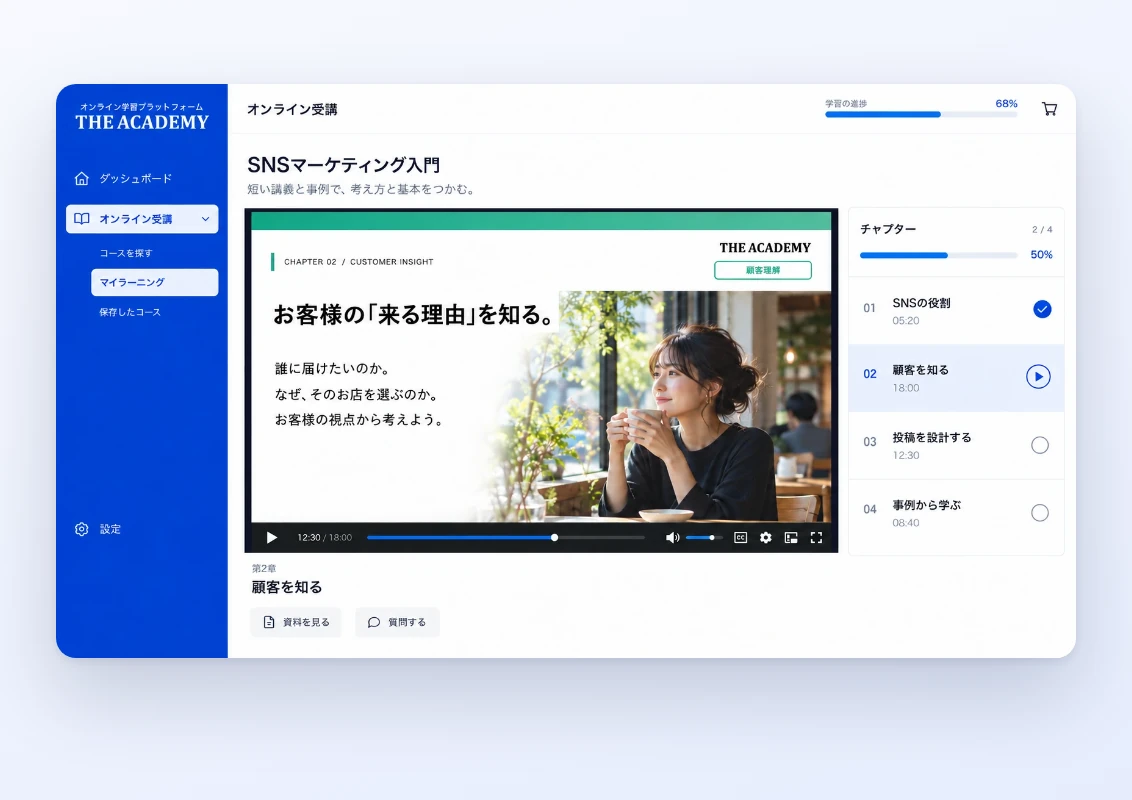
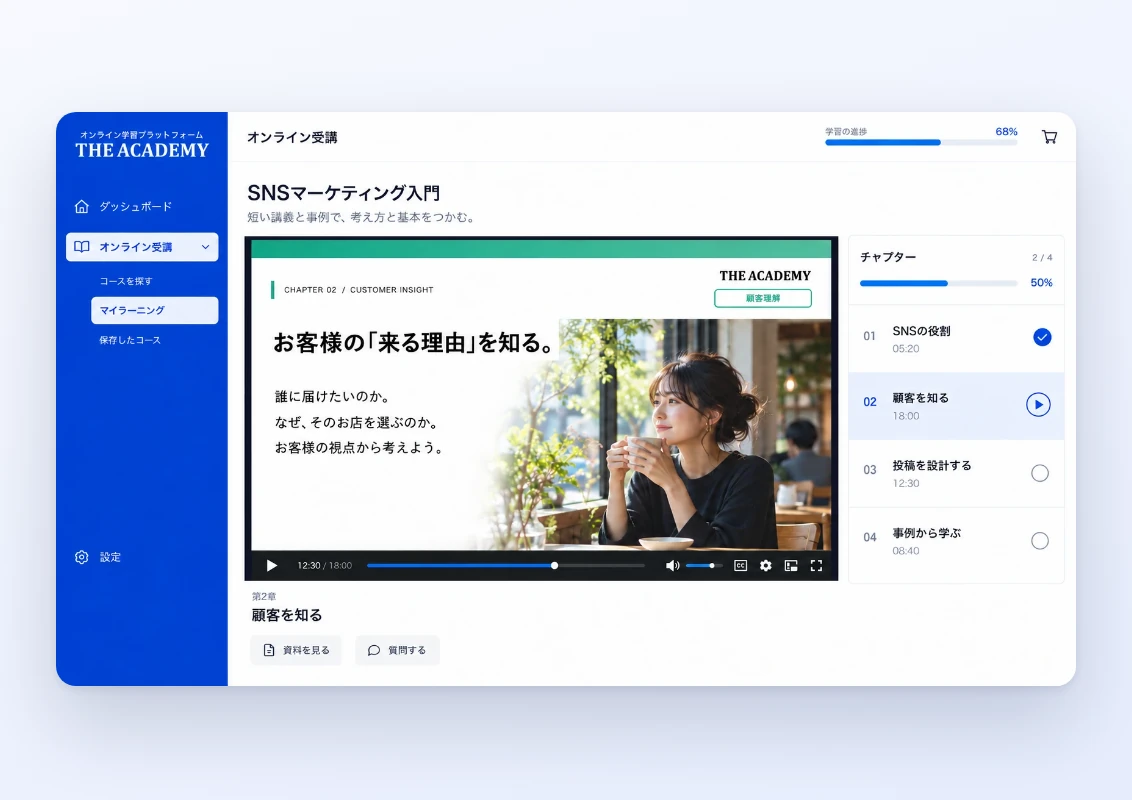
学び方・受講成果：STEP 03「形にする」に編集画面の画像を追加、STEP 01の画面位置を中央にそろえる
Claude-Session: https://claude.ai/code/session_018bY9jRKEdcKYTrkj9d6ZsY

diff --git a/lp/how-to-learn.html b/lp/how-to-learn.html
@@ -1322,7 +1322,7 @@
 </div></section><section class="hl-how" id="how" aria-labelledby="how-title"><div class="wrap">
 <header class="sec-head"><div><p class="sec-kicker">HOW IT WORKS</p><h2 class="sec-title" id="how-title">学びを、<wbr>次の機会までつなぐ。</h2>
 <p class="sec-lead">例：<wbr>カフェのSNSキャンペーンを<wbr>企画した受講生の3か月。<wbr>知る → 試す → 形にする → 共有する の順に、<wbr>ひとつの成果ができるまで。</p></div></header>
-<div class="scg__lab"><span class="hsg__learn">学ぶ</span><span class="hsg__keep">残す</span></div><ol class="scs"><li class="sc"><div class="sc__v sc__v--img"><img src="assets/how/step-01-learn.webp" alt="オンライン受講の画面。SNSマーケティング入門 第2章「顧客を知る」の講義動画とチャプター一覧" loading="lazy"></div><p class="sc__n">STEP 01</p><h3>知る</h3><p>短い講義と事例で、考え方と基本をつかむ。</p></li><li class="sc"><div class="sc__v sc__v--img"><img src="assets/how/step-02-try.webp" alt="顧客理解のワークシート。カフェを例に、誰に・どんな価値・どんな行動につなげるかを書き込む" loading="lazy"></div><p class="sc__n">STEP 02</p><h3>試す</h3><p>自分の仕事に置き換えて、小さく手を動かす。</p></li><li class="sc"><div class="sc__v"><div class="om om--sns"><span style="--c:#F7A072">春の<br>キャンペーン</span><span style="--c:#6F97F7">新メニュー<br>登場</span><span style="--c:#7CC49A">お客様の<br>声</span><span style="--c:#FFD66B">週末<br>イベント</span></div></div><p class="sc__n">STEP 03</p><h3>形にする</h3><p>伝わる形に整えて、使える1本を仕上げる。</p></li><li class="sc sc--keep"><div class="sc__v"><div class="om om--pf"><p class="om__t">学びの歩み</p><span class="om__pill">実績を公開しました</span><p class="om__pt">春のSNSキャンペーン企画</p><div class="om__react">♥ 24　💬 5</div></div></div><p class="sc__n">STEP 04</p><h3>共有する</h3><p>背景や過程もポートフォリオに残し、次の機会へ。</p></li></ol></div></section><section class="hl-keep" id="keep" aria-labelledby="keep-title"><div class="wrap">
+<div class="scg__lab"><span class="hsg__learn">学ぶ</span><span class="hsg__keep">残す</span></div><ol class="scs"><li class="sc"><div class="sc__v sc__v--img"><img src="assets/how/step-01-learn.webp" alt="オンライン受講の画面。SNSマーケティング入門 第2章「顧客を知る」の講義動画とチャプター一覧" loading="lazy"></div><p class="sc__n">STEP 01</p><h3>知る</h3><p>短い講義と事例で、考え方と基本をつかむ。</p></li><li class="sc"><div class="sc__v sc__v--img"><img src="assets/how/step-02-try.webp" alt="顧客理解のワークシート。カフェを例に、誰に・どんな価値・どんな行動につなげるかを書き込む" loading="lazy"></div><p class="sc__n">STEP 02</p><h3>試す</h3><p>自分の仕事に置き換えて、小さく手を動かす。</p></li><li class="sc"><div class="sc__v sc__v--img"><img src="assets/how/step-03-make.webp" alt="デザインツールの編集画面。カフェのInstagramカルーセル投稿4枚を、写真と帯がつながるように仕上げている" loading="lazy"></div><p class="sc__n">STEP 03</p><h3>形にする</h3><p>伝わる形に整えて、使える1本を仕上げる。</p></li><li class="sc sc--keep"><div class="sc__v"><div class="om om--pf"><p class="om__t">学びの歩み</p><span class="om__pill">実績を公開しました</span><p class="om__pt">春のSNSキャンペーン企画</p><div class="om__react">♥ 24　💬 5</div></div></div><p class="sc__n">STEP 04</p><h3>共有する</h3><p>背景や過程もポートフォリオに残し、次の機会へ。</p></li></ol></div></section><section class="hl-keep" id="keep" aria-labelledby="keep-title"><div class="wrap">
 <header class="sec-head"><div><p class="sec-kicker">KEEP GOING</p><h2 class="sec-title" id="keep-title">学びを、<wbr>続けられる仕組み。</h2>
 <p class="sec-lead">「続けられるか不安」に、<wbr>3つの仕組みで応えます。</p></div></header>
 <ul class="kcs"><li class="kc"><div class="kc__v"><div class="kv kv--week"><p class="kv__t">今週の学習プラン<span>計 2h</span></p><ol><li class=""><b>月</b><i></i></li><li class="on"><b>火</b><i></i></li><li class=""><b>水</b><i></i></li><li class="on"><b>木</b><i></i></li><li class=""><b>金</b><i></i></li><li class="on2"><b>土</b><i></i></li><li class=""><b>日</b><i></i></li></ol><p class="kv__lg"><i class="on"></i>平日夜 30分<i class="on2"></i>週末 60分</p></div></div><div class="kc__b"><p class="kc__n">01</p><h3>忙しくても、続けられる設計</h3><p>週2h〜。平日夜と週末に分けて、無理なく進められます。</p></div></li><li class="kc"><div class="kc__v"><div class="kv kv--prog"><p class="kv__t">マイラーニング</p><div class="kv__c"><img src="assets/photos/sns-phone.webp" alt=""><div><b>SNSマーケティング実践</b><small>第4章 運用と数値の見方</small><span><em style="width:62%"></em></span></div><strong>62%</strong></div><p class="kv__go">続きから学ぶ ›</p></div></div><div class="kc__b"><p class="kc__n">02</p><h3>進捗が見える</h3><p>マイラーニングで、どこまで進んだか・続きはどこかがひと目で分かります。</p></div></li><li class="kc"><div class="kc__v"><div class="kv kv--feed"><div class="kv__post"><svg class="avt" viewBox="-40 -40 80 80" width="30" height="30" aria-hidden="true"><clipPath id="av022"><circle r="38"/></clipPath><circle r="38" fill="#FFE8D9"/><g clip-path="url(#av022)"><g transform="translate(0 14) scale(1.35)"><path d="M-26 14 C-30 -22 30 -22 26 14 L20 14 C20 -2 4 -8 -6 -12 C-10 -4 -20 0 -20 14Z" fill="#3B2A22" stroke="#012270" stroke-width="3" stroke-linecap="round" stroke-linejoin="round"/><path d="M-30 70 C-30 40 -16 30 0 30 C16 30 30 40 30 70Z" fill="#F76B38" stroke="#012270" stroke-width="3" stroke-linecap="round" stroke-linejoin="round"/><path d="M-6 22 v10 h12 v-10" fill="#FDE4D6" stroke="#012270" stroke-width="3" stroke-linecap="round" stroke-linejoin="round"/><circle cx="0" cy="0" r="22" fill="#FDE4D6" stroke="#012270" stroke-width="3" stroke-linecap="round" stroke-linejoin="round"/><path d="M-21 -4 C-18 -24 18 -24 21 -4 C6 -12 -6 -12 -21 -4Z" fill="#3B2A22" stroke="#012270" stroke-width="3" stroke-linecap="round" stroke-linejoin="round"/><circle cx="-8" cy="2" r="2.4" fill="#012270"/><circle cx="8" cy="2" r="2.4" fill="#012270"/><path d="M-6 10 Q0 19 6 10 Z" fill="#F76B38" stroke="#012270" stroke-width="3" stroke-linecap="round" stroke-linejoin="round" stroke-width="2.4"/><ellipse cx="-14" cy="9" rx="4" ry="2.6" fill="#F9A98A" opacity=".7"/><ellipse cx="14" cy="9" rx="4" ry="2.6" fill="#F9A98A" opacity=".7"/></g></g><circle r="38" fill="none" stroke="#012270" stroke-width="2.5"/></svg><div><b>ゆい</b><small>2時間前</small><p>企画書の構成を見直しました！<br>フィードバックうれしい☺</p><span class="kv__like">♥ 12</span></div></div><div class="kv__post"><svg class="avt" viewBox="-40 -40 80 80" width="30" height="30" aria-hidden="true"><clipPath id="av036"><circle r="38"/></clipPath><circle r="38" fill="#FFE8D9"/><g clip-path="url(#av036)"><g transform="translate(0 14) scale(1.35)"><path d="M-26 14 C-30 -22 30 -22 26 14 L20 14 C20 -2 4 -8 -6 -12 C-10 -4 -20 0 -20 14Z" fill="#3B2A22" stroke="#012270" stroke-width="3" stroke-linecap="round" stroke-linejoin="round"/><path d="M-30 70 C-30 40 -16 30 0 30 C16 30 30 40 30 70Z" fill="#F76B38" stroke="#012270" stroke-width="3" stroke-linecap="round" stroke-linejoin="round"/><path d="M-6 22 v10 h12 v-10" fill="#FDE4D6" stroke="#012270" stroke-width="3" stroke-linecap="round" stroke-linejoin="round"/><circle cx="0" cy="0" r="22" fill="#FDE4D6" stroke="#012270" stroke-width="3" stroke-linecap="round" stroke-linejoin="round"/><path d="M-21 -4 C-18 -24 18 -24 21 -4 C6 -12 -6 -12 -21 -4Z" fill="#3B2A22" stroke="#012270" stroke-width="3" stroke-linecap="round" stroke-linejoin="round"/><circle cx="-8" cy="2" r="2.4" fill="#012270"/><circle cx="8" cy="2" r="2.4" fill="#012270"/><path d="M-6 10 Q0 19 6 10 Z" fill="#F76B38" stroke="#012270" stroke-width="3" stroke-linecap="round" stroke-linejoin="round" stroke-width="2.4"/><ellipse cx="-14" cy="9" rx="4" ry="2.6" fill="#F9A98A" opacity=".7"/><ellipse cx="14" cy="9" rx="4" ry="2.6" fill="#F9A98A" opacity=".7"/></g></g><circle r="38" fill="none" stroke="#012270" stroke-width="2.5"/></svg><div><b>りょう</b><small>昨日</small><p>今週は平日夜に30分ずつ進めた📷</p></div></div></div></div><div class="kc__b"><p class="kc__n">03</p><h3>ひとりにしない</h3><p>フォローしている仲間の学習投稿から、勉強の進め方のヒントが見つかります。仲間の歩みが、続けるモチベーションに。</p></div></li></ul>
